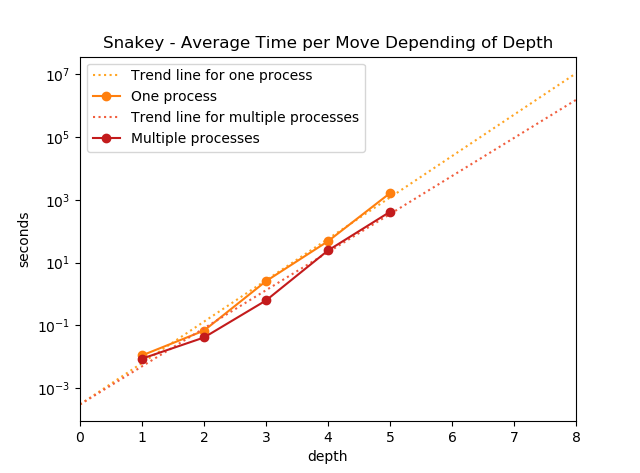
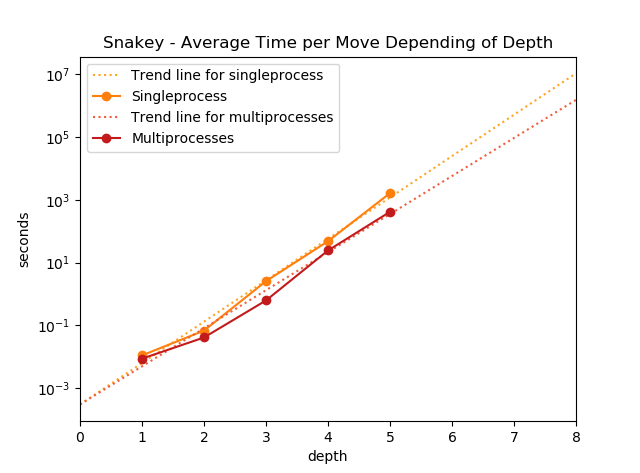
fixed typo in multiprocess

diff --git a/2048-AI.html b/2048-AI.html
@@ -146,7 +146,7 @@
             <p>As 2048 contains a random factor in regard of the randomly spawned 2 or 4 value tile, Expectimax is the most obvious approach to implement an AI.
               We used the Hierarchicals heuristics score function (called Heuristic in the following) to value the board, as well as an adaptive depth going from depth one to depth three depending on the number of empty tiles.
               This allowed us to speed up the early phase of the game, as depth 3 with our score function needed up to 10 seconds for a move, depending on the number of empty tiles after a move.
-              As we urged for more speed, we also implemented multiproccessing into our AI that created a process for each top level move, in order to speed it up further.
+              As we urged for more speed, we also implemented multiprocessing into our AI that created a process for each top level move, in order to speed it up further.
               Thanks to the two mentioned measurements we achieved an average time per move of under one second.
               Overall the first iteration of our AI did alot better than the heuristic, it regularly won the game and the average score increased to 30'000 points.
               It was a good first step but we wanted to do better!<br>
@@ -261,12 +261,12 @@
                 </div>
               </div>
             </figure>
-            <p>As a last step we analysed the speed of our AI and how much multiproccessing speeded the calculation up for different depths.
+            <p>As a last step we analysed the speed of our AI and how much multiprocessing speeded the calculation up for different depths.
               We started always from the same board as seen on the graphic below and made three moves with every variation.
-              The variations reached from depth one to depth five and once with multiproccessing enabled and once without.
+              The variations reached from depth one to depth five and once with multiprocessing enabled and once without.
               We calculated the average time per move and compared them to each other.<br>
-              In conclusion we saw that multiproccessing is already a bit faster at depth one and nearly double as fast at depth two.
-              As expected the performance boost increased quickly and at depth five multiproccessing was already four times faster than singleproccessing.
+              In conclusion we saw that multiprocessing is already a bit faster at depth one and nearly double as fast at depth two.
+              As expected the performance boost increased quickly and at depth five multiprocessing was already four times faster than singleproccessing.
             </p>
             <figure>
               <div class="single-slide">
@@ -283,8 +283,8 @@
                       <table class="article-statistic">
                         <tr>
                           <th>Depth</th>
-                          <th>Singleprocess[s]</th>
-                          <th>Multiproccess[s]</th>
+                          <th>Singleprocess&nbsp;[s]</th>
+                          <th>Multiprocess&nbsp;[s]</th>
                         </tr>
                         <tr>
                           <td>1</td>
